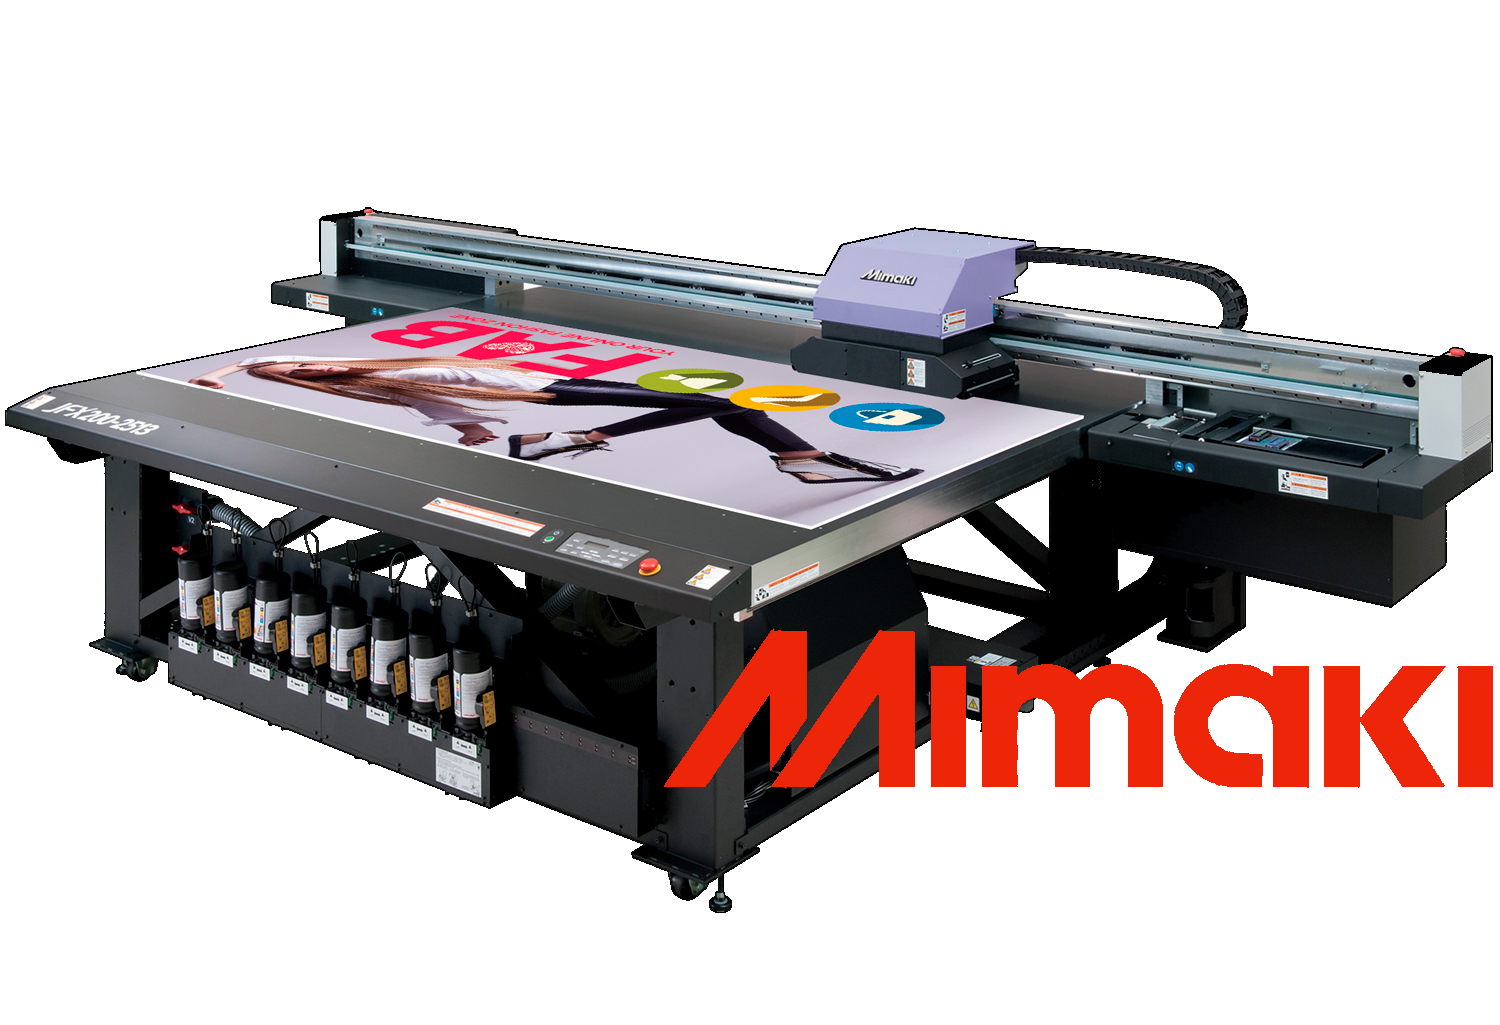
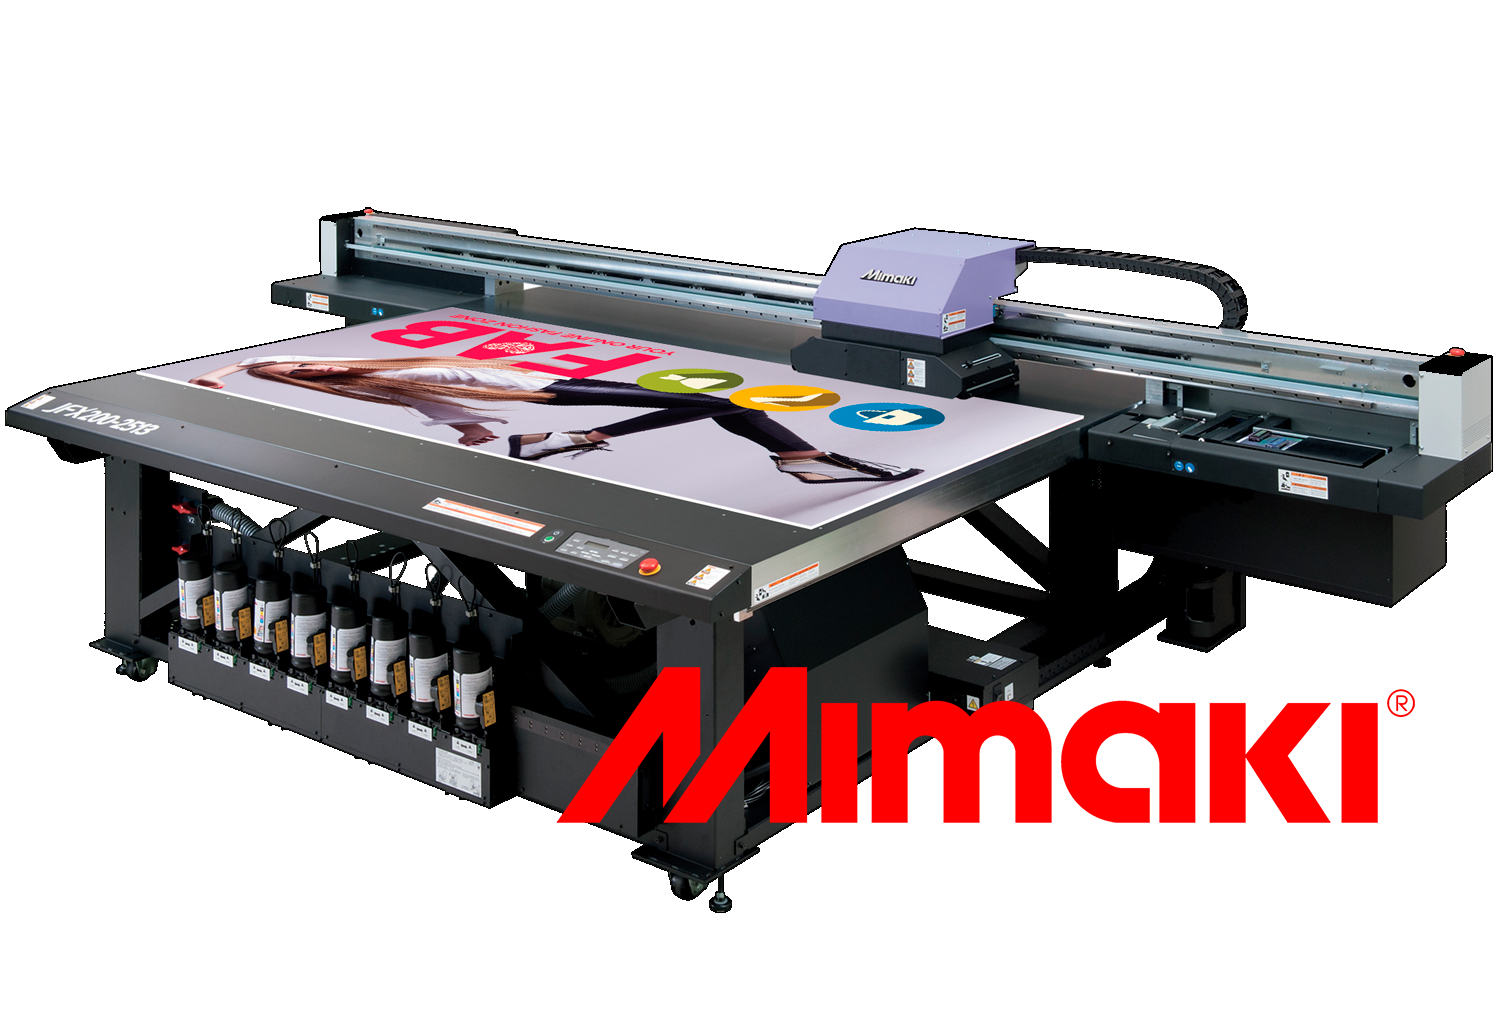
Se agregan imagenes en ImgLonas
Se cambió el logo mimaki en img mesaPortada.

Changed region(s): [[0.368, 0.5932, 1.0, 0.8117]]

diff --git a/copy-group/src/components/DirImg/ImgLonas.js b/copy-group/src/components/DirImg/ImgLonas.js
@@ -1,12 +1,23 @@
-import image1 from "../../img/impresion-uno.jpg";
-import image2 from "../../img/impresion-dos.jpg";
-import image3 from "../../img/calco-dos.jpg";
-import image4 from "../../img/calco-uno.jpg";
-import image5 from "../../img/ploteo-dos.jpg";
-import image6 from "../../img/ploteo-uno.jpg";
-import image7 from "../../img/impresion-dos.jpg";
-import image8 from "../../img/impresion-dos.jpg";
-import image9 from "../../img/impresion-dos.jpg";
+import image1 from "../../img/ImgLonas/001.jpg";
+import image2 from "../../img/ImgLonas/002.jpg";
+import image3 from "../../img/ImgLonas/003.jpg";
+import image4 from "../../img/ImgLonas/004.jpg";
+import image5 from "../../img/ImgLonas/005.jpg";
+import image6 from "../../img/ImgLonas/006.jpg";
+import image7 from "../../img/ImgLonas/007.jpg";
+import image8 from "../../img/ImgLonas/008.jpg";
+import image9 from "../../img/ImgLonas/009.jpg";
+import image10 from "../../img/ImgLonas/010.jpg";
+import image11 from "../../img/ImgLonas/011.jpg";
+import image12 from "../../img/ImgLonas/012.jpg";
+import image13 from "../../img/ImgLonas/013.jpg";
+import image14 from "../../img/ImgLonas/014.jpg";
+import image15 from "../../img/ImgLonas/015.jpg";
+import image16 from "../../img/ImgLonas/016.jpg";
+import image17 from "../../img/ImgLonas/017.jpg";
+import image18 from "../../img/ImgLonas/018.jpg";
+import image19 from "../../img/ImgLonas/019.jpg";
+
 
 const ImgLonas = [
   image1,
@@ -18,6 +29,16 @@ const ImgLonas = [
   image7,
   image8,
   image9,
+  image10,
+  image11,
+  image12,
+  image13,
+  image14,
+  image15,
+  image16,
+  image17,
+  image18,
+  image19,
 ];
 
 export default ImgLonas;

diff --git a/copy-group/src/components/ImageCarousel.js b/copy-group/src/components/ImageCarousel.js
@@ -4,16 +4,16 @@ import 'slick-carousel/slick/slick.css';
 import 'slick-carousel/slick/slick-theme.css';
 import '../styles/ImageCarousel.css';
 
-import image1 from '../img/1.jpg';
-import image2 from '../img/2.jpg';
-import image3 from '../img/3.jpg';
-import image4 from '../img/4.jpg';
-import image5 from '../img/5.jpg';
-import image6 from '../img/6.jpg';
-import image7 from '../img/7.jpg';
-import image8 from '../img/8.jpg';
-import image9 from '../img/10.jpg';
-import image10 from '../img/11.jpg';
+import image1 from '../img/imp-digitales/001.jpg';
+import image2 from '../img/ImgLonas/002.jpg';
+import image3 from '../img/imp-digitales/003.jpg';
+import image4 from '../img/imp-digitales/005.jpg';
+import image5 from '../img/Serigrafia/008.jpg';
+import image6 from '../img/Serigrafia/009.jpg';
+import image7 from '../img/Serigrafia/002.jpg';
+import image8 from '../img/ImgLonas/016.jpg';
+import image9 from '../img/ImgLonas/017.jpg';
+import image10 from '../img/ImgLonas/018.jpg';
 
 const images = [image1, image2, image3, image4, image5, image6, image7, image8, image9, image10];
 

diff --git a/copy-group/src/components/DirImg/ImgDigital.js b/copy-group/src/components/DirImg/ImgDigital.js
@@ -5,8 +5,8 @@ import image4 from "../../img/imp-digitales/004.jpg";
 import image5 from "../../img/imp-digitales/005.jpg";
 import image6 from "../../img/6.jpg";
 import image7 from "../../img/impresion-uno.jpg";
-import image8 from "../../img/ploteo-dos.jpg";
-import image9 from "../../img/ploteo-dos.jpg";
+import image8 from "../../img/copyLogo2.png";
+import image9 from "../../img/mesaPortada.png";
 
 const ImgDigital = [
   image1,
